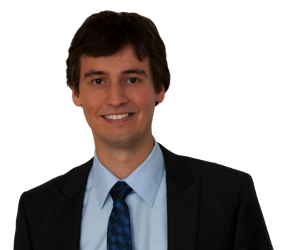
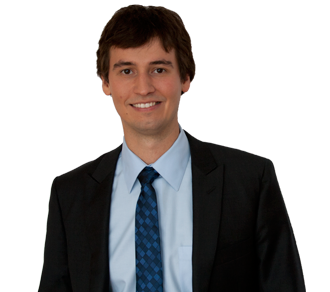
Added M.Sc. titles and replaced florian_reinhart.png and kevin_schlieper.png with improved images (especially better colors).

Changed region(s): [[0.0283, 0.056, 0.9894, 1.0], [0.3392, 0.0, 0.5936, 0.168]]

diff --git a/about.html b/about.html
@@ -47,14 +47,14 @@
                 <div class="about-person-container odd">
                     <div class="about-person">
                         <img id="pictureReinhart" src="images/about/florian_reinhart.png" alt="Florian Reinhart">
-                          <h2>Florian Reinhart</h2>
+                          <h2>Florian Reinhart</h2><h3>M.Sc. with honours</h3>
                           <p>Als iPhone Nutzer der ersten Stunde hat Florian Reinhart als einer der ersten damit begonnen Apps für das iPhone zu entwickeln. Durch sein Gespür für gutes Design und Nutzerfreundlichkeit stellt er sicher, dass die Anwendungen unserer Kunden stets gut aussehen und einfach zu bedienen sind. Zu seinen ehemaligen Arbeitgebern zählen unter anderem SAP, IBM und Apple. Darunter fallen auch längere Arbeitsaufenthalte in den USA und Neuseeland. Sein Bachelorstudium hat er am <a href="http://hpi.uni-potsdam.de">Hasso-Plattner-Institut</a> in Potsdam bestritten. Sein Masterstudium hat er an der Universität Augsburg, der Technischen Universität München und der Ludwig-Maximilians-Universität München im Rahmen des <a href="http://www.studieren.se">Elite Graduate Program</a> durchgeführt. </p>
                     </div>
                 </div>
                 <div class="about-person-container even">
                     <div class="about-person">
                         <img id="pictureSchlieper" src="images/about/kevin_schlieper.png" alt="Kevin Schlieper">
-                            <h2>Kevin Schlieper</h2>
+                            <div class="title"><h2>Kevin Schlieper</h2><h3>M.Sc. with honours</h3></div>
                             <p>Kevin Schlieper entwickelt seit 2002 Software. Seit 2008 entwickelt er vor allem für mobile Endgeräte. Durch seine analytische Denkfähigkeit behält er auch bei komplexen Algorithmen immer den Durchblick. In der Vergangenheit arbeitete er als Softwareentwickler und -berater unter anderem für SAP, Siemens und IBM. Davon verbrachte er ein Jahr in Palo Alto, Kalifornien sowie 8 Monate in Neuseeland. Er hält einen Bachelorabschluss des <a href="http://hpi.uni-potsdam.de">Hasso-Plattner-Instiuts</a> in Potsdam. Sein Masterstudium hat er im Rahmen des <a href="http://www.studieren.se">Elite Graduate Program</a> in Software Engineering an der Universität Augsburg, der Technischen Universität München und der Ludwig-Maximilians-Universität München durchgeführt.</p>
                     </div>
                 </div>

diff --git a/about.css b/about.css
@@ -94,7 +94,6 @@
 	right: 0px;
 	top: 30px;
 	opacity: 1;
-	width:  330px;
 }
 
 .odd p {
@@ -109,7 +108,7 @@
     line-height: 1.5;
 }
 
-.odd h2 {
+.odd p.title {
 	position: absolute;
 	top: 10px;
 	left: 0px;
@@ -119,12 +118,23 @@
 	opacity: 1;
 }
 
+.odd h2 {
+	font-weight: bold;
+	display: inline;
+}
+
+.odd h3 {
+	color: gray;
+	font-weight: normal;
+	margin-left: 10px;
+	display: inline;
+}
+
 .even img {
 	position: absolute;
 	left: 0px;
 	top: 30px;
 	opacity: 1;
-	width:  330px;
 }
 
 .even p {
@@ -139,12 +149,28 @@
     line-height: 1.5;
 }
 
-.even h2 {
+.title {
 	position: absolute;
 	top: 30px;
 	left: 400px;
-	width: 500px;
 	line-height: 28px;
 	font-weight: bold;
 	opacity: 1;
+}
+
+.even h2 {
+	top: 30px;
+	left: 400px;
+	line-height: 28px;
+	font-weight: bold;
+	
+	display: inline; 
+}
+
+.even h3 {
+	line-height: 28px;
+	margin-left: 10px;
+	color: gray;
+	font-weight: normal;
+ 	display: inline; 
 }
